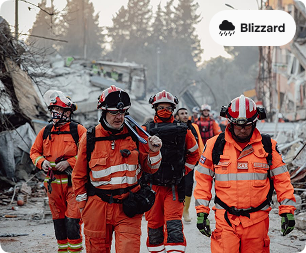
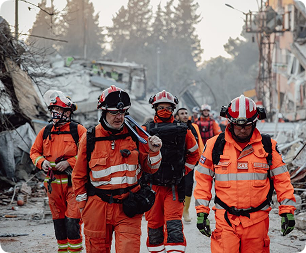
Complete Card

Changed region(s): [[0.7059, 0.0277, 0.9706, 0.1937]]

diff --git a/src/Components/Card.jsx b/src/Components/Card.jsx
@@ -1,60 +1,68 @@
 import React from 'react'
 
 function Card() {
-    
-    const data = [
-        {
-          imageUrl: 'image/card1.png',
-          title: 'Whitechapel Rd.',
-          location: 'Tulare County, Los Angles, CA 23415',
-          price: '$1,456,654.00',
-        },
-        {
-          imageUrl: 'image/card2.png',
-          title: 'Whitechapel Rd.',
-          location: 'Tulare County, Los Angles, CA 23415',
-          price: '$1,456,654.00',
-        },
-        {
-          imageUrl: 'image/card3.png',
-          title: 'Tulare County',
-          location: 'Tulare County, Los Angles, CA 23415',
-          price: '$1,456,654.00',
-        },
-        {
-          imageUrl: 'image/card4.png',
-          title: 'Tulare County',
-          location: 'Tulare County, Los Angles, CA 23415',
-          price: '$1,456,654.00',
-        },
-        {
-          imageUrl: 'image/card5.png',
-          title: 'Tulare County',
-          location: 'Tulare County, Los Angles, CA 23415',
-          price: '$1,456,654.00',
-        },
-        {
-          imageUrl: 'image/card6.png',
-          title: 'Tulare County',
-          location: 'Tulare County, Los Angles, CA 23415',
-          price: '$1,456,654.00',
-        },
-      ];
-      
-     return (
-        <div className='w-full h-[709px] bg-emerald-500 grid grid-cols-1 md:grid-cols-2 lg:grid-cols-4 gap-4 md:gap-6 lg:gap-8 px-4 md:px-8 lg:px-16 '>
-            {data.map((item, index) => (
-                <div key={index} className='shadow-md w-[306px] h-[337px]'>
-                    <img src={item.imageUrl} alt='card' className='w-[306px] h-[253px] object-cover rounded-lg'/>
-                    <div className='p-'>
-                        <h1 className='text-xl font-semibold'>{item.title}</h1>
-                        <p className='text-sm text-gray-500'>{item.location}</p>
-                        <p className='text-lg font-semibold mt-2'>{item.price}</p>
-                    </div>
-                </div>
-            ))}
+
+  const data = [
+    {
+      imageUrl: 'image/card1.png',
+      title: 'Whitechapel Rd.',
+      location: 'Tulare County, Los Angles, CA 23415',
+      price: '$1,456,654.00',
+    },
+    {
+      imageUrl: 'image/card2.png',
+      title: 'Whitechapel Rd.',
+      location: 'Tulare County, Los Angles, CA 23415',
+      price: '$1,456,654.00',
+    },
+    {
+      imageUrl: 'image/card3.png',
+      title: 'Tulare County',
+      location: 'Tulare County, Los Angles, CA 23415',
+      price: '$1,456,654.00',
+    },
+    {
+      imageUrl: 'image/card4.png',
+      title: 'Tulare County',
+      location: 'Tulare County, Los Angles, CA 23415',
+      price: '$1,456,654.00',
+    },
+    {
+      imageUrl: 'image/card5.png',
+      title: 'Tulare County',
+      location: 'Tulare County, Los Angles, CA 23415',
+      price: '$1,456,654.00',
+    },
+    {
+      imageUrl: 'image/card6.png',
+      title: 'Tulare County',
+      location: 'Tulare County, Los Angles, CA 23415',
+      price: '$1,456,654.00',
+    },
+  ];
+
+  return (
+    <div className='w-full h-[709px] grid grid-cols-1 md:grid-cols-2 lg:grid-cols-4 gap-4 md:gap-6 lg:gap-x-11 ml-2 md:ml-0 '>
+      {data.map((item, index) => (
+        <div key={index} className='shadow-md w-[306px] h-[337px]'>
+          <div className='relative'>
+
+            <img src={item.imageUrl} alt='card' className='w-[306px] h-[253px] object-cover rounded-lg' />
+            <div className='absolute top-[10px] right-[10px] bg-[#FAFAFA] p-[10px] rounded-[40px] flex items-center w-[87px] h-[36px] gap-[5px]'>
+              <img src='image/thunder.png' alt='' />
+              <span className=' font-[700] text-[12px] leading-[30px] text-[#18181B]'> Blizzard</span>
+
+            </div>
+          </div>
+          <div className='p-'>
+            <h1 className='font-[700] text-[16px] leading-[30px] text-[#09090B]'>{item.title}</h1>
+            <p className='font-[400] text-[14px] leading-[30px] text-[#71717A]'>{item.location}</p>
+            <p className='font-[700] text-[16px] leading-[30px] text-[#09090B]'>{item.price}</p>
+          </div>
         </div>
-    )
+      ))}
+    </div>
+  )
 }
 
 

diff --git a/src/Components/Navbar.jsx b/src/Components/Navbar.jsx
@@ -134,7 +134,9 @@ function Navbar() {
             </button>
           </div>
         </div>
-        
+        <div className='mt-[60px]'>
+          <Card />
+        </div>
       </main>
     </div>
   );
